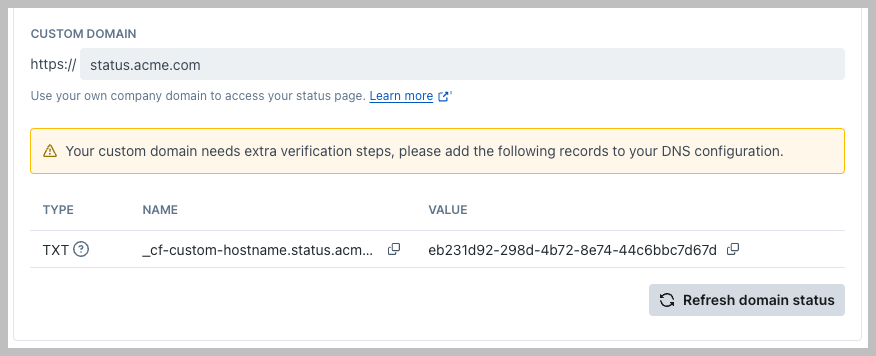
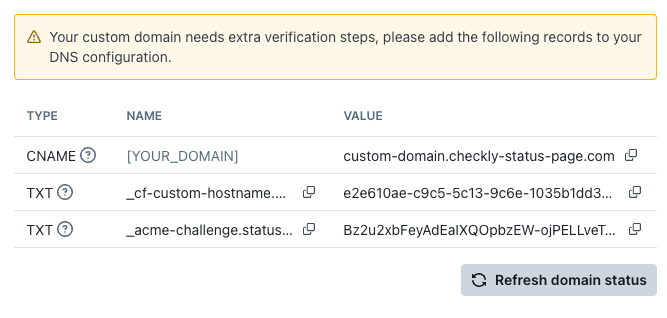
update custom domain section

Changed region(s): [[0.0, 0.0, 1.0, 1.0], [0.9295, 0.5943, 0.9595, 0.6226]]

diff --git a/site/content/docs/status-pages/_index.md b/site/content/docs/status-pages/_index.md
@@ -73,7 +73,7 @@ Use incident automation to connect a service and a check to automatically open i
 
 You can host your status page under your own domain. To make this work, you need to do two things:
 
-1. Add a valid custom domain to your status page
+1. Add a valid custom domain to your status page.
 ![Custom domain configuration](/docs/images/status-pages/status-pages-custom-domain-1.png)
 
 2. Create a CNAME record in your DNS that points to custom-domain.checkly-status-page.com
@@ -81,7 +81,8 @@ Any DNS provider will have the option to easily add CNAME records. For example o
 
 ![Custom domain CNAME configuration](/docs/images/status-pages/status-pages-custom-domain-2.png)
 
+3. Verify you are the owner of the domain by adding a `TXT` record to your DNS. The record can be copied from the status page configuration page after providing a custom domain and saving the page once.
 
-In some cases, our provider will ask you to verify you are the owner of the domain by adding another `TXT` record to your DNS. You will see which records to add after you add a custom domain and save your page configuration once.
+4. Add validation `TXT` record(s). The record can be copied from the status page configuration page after providing a custom domain and saving the page once.
 
 ![Custom domain CNAME configuration](/docs/images/status-pages/status-pages-custom-domain-3.png)
